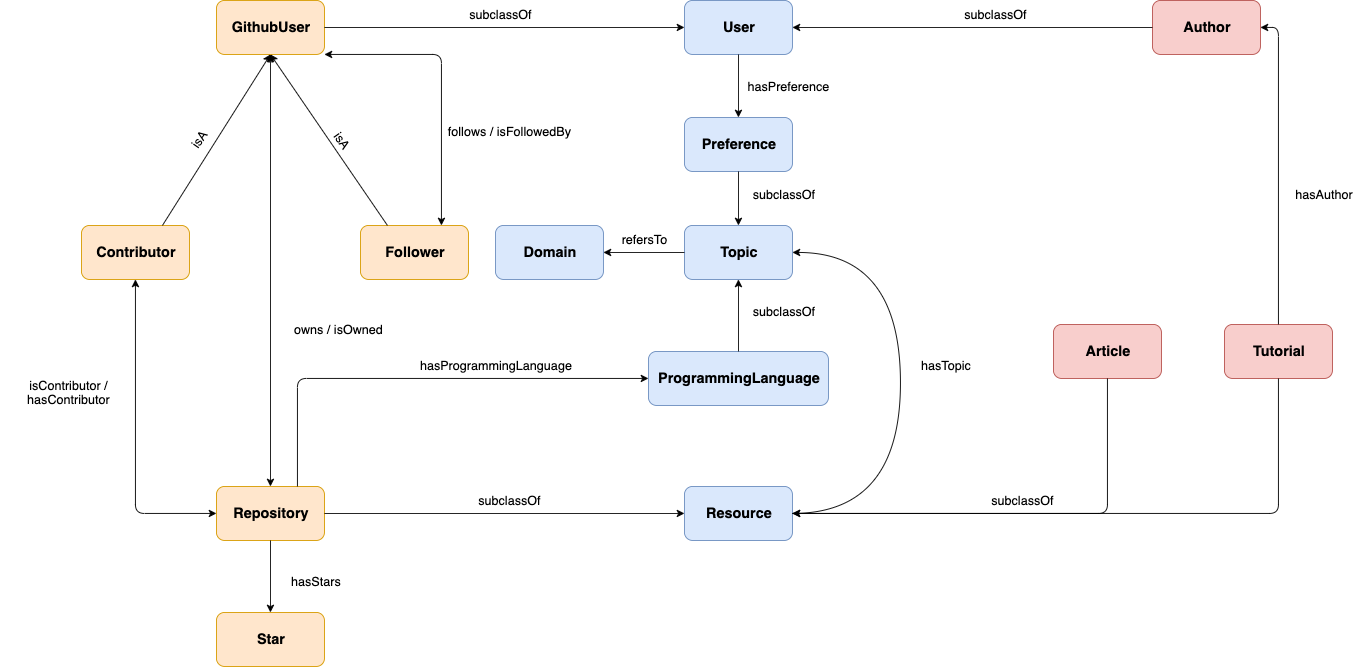
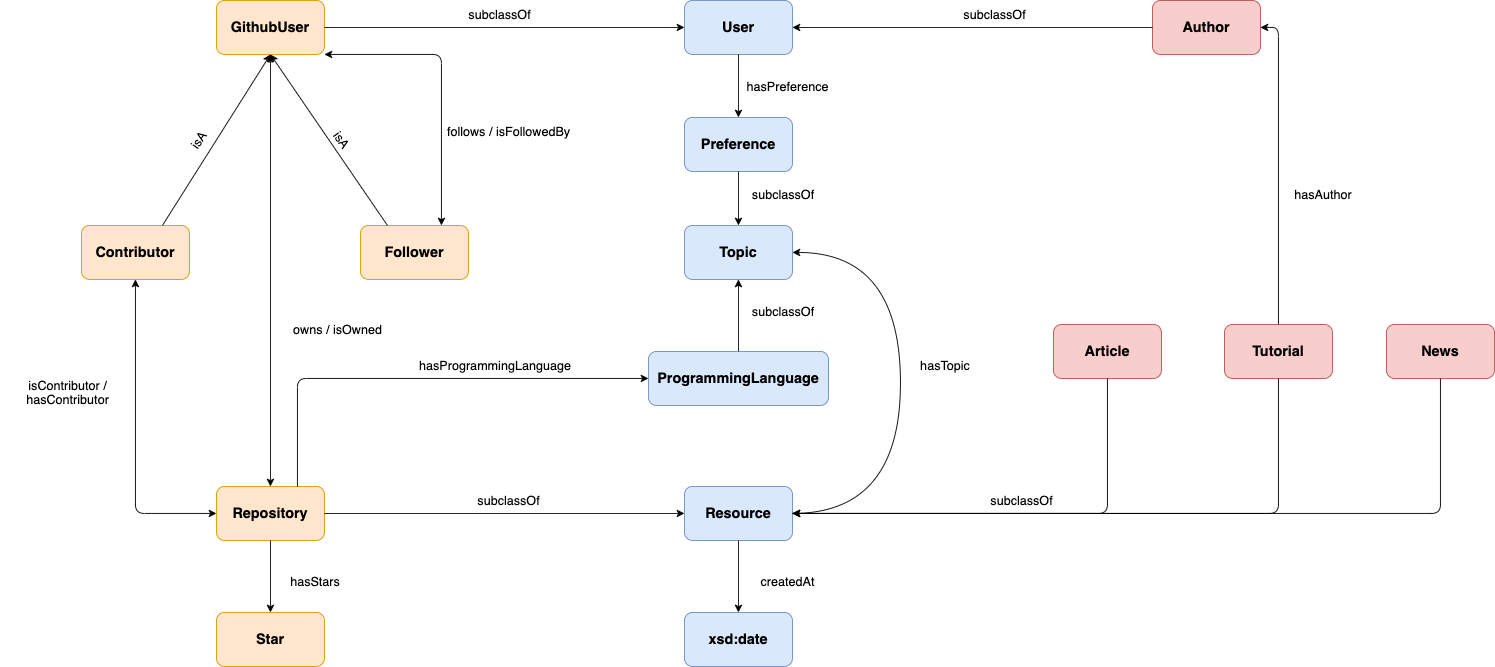
[Documentation] Updated Ontology diagram and discribed suggestion strategies

diff --git a/scholarly/scholarly.html b/scholarly/scholarly.html
@@ -339,7 +339,7 @@
         </section>
 
         <section>
-            <h2>Main Application Workflow</h2>
+            <h2>Main Application Features</h2>
             <section>
                 <h3>Query for information</h3>
                 <figure typeof="sa:Image">
@@ -399,6 +399,66 @@
                     and the Data Source Services will perform the update in parallel.
                 </p>
             </section>
+
+            <section>
+                <h3>Web Resources Suggestions</h3>
+                <p>
+                    In the context of the client application that SATO offers, for helping users find resources of
+                    interest, on the Main Page of the application, there is under the search input a suggestions section
+                    where resources that exist in the SATO Knowledge Graph are displayed to users according to different
+                    strategies.
+                </p>
+                <p>
+                    At each main page reload, a new set of suggestions is recommended to any user. There are two
+                    suggestion strategies: for unauthenticated users and for authenticated users.
+                </p>
+                <p>
+                    For unauthenticated users, a query is made for suggesting random Articles, News and Repositories
+                    from the top 100 topics that exist in SATO Knowledge Graph. The query looks like this:
+                </p>
+                <pre>
+            PREFIX : &lthttp://www.semanticweb.org/wade/ontologies/sato#&gt
+            PREFIX rdf: &lthttp://www.w3.org/1999/02/22-rdf-syntax-ns#&gt
+            SELECT DISTINCT ?url WHERE {
+                ?url rdf:type ?type .
+                FILTER (?type IN (:Article, :News, :Repository)) .
+                ?url :hasTopic ?topic .
+                {
+                    SELECT ?topic (COUNT(?topic) AS ?occurrences) {
+                        ?url :hasTopic ?topic
+                    }
+                    GROUP BY ?topic
+                    ORDER BY DESC(?occurrences)
+                    LIMIT 100
+                }
+            }
+            ORDER BY RAND()
+            LIMIT 8
+                </pre>
+                <p>
+                    For authenticated users, the suggestions query is influenced by the user interests that were
+                    extracted from the Github profile that was used for sign in. The suggestion query looks like this:
+                </p>
+                <pre>
+            PREFIX : &lthttp://www.semanticweb.org/wade/ontologies/sato#&gt
+            PREFIX rdf: &lthttp://www.w3.org/1999/02/22-rdf-syntax-ns#&gt
+            SELECT DISTINCT ?url {
+                ?url rdf:type ?type .
+                FILTER (?type IN (:Article, :News, :Repository)) .
+                ?url :hasTopic ?topic .
+                FILTER (CONTAINS(STR(?topic), 'topic1') ||
+                        CONTAINS(STR(?url), 'topic1') ||
+                        CONTAINS(STR(?topic), 'topic2') ||
+                        CONTAINS(STR(?url), 'topic2')) .
+            }
+            ORDER BY RAND()
+            LIMIT 8
+                </pre>
+            </section>
+
+<!--            <section>-->
+<!--                <h3>Advanced Search</h3>-->
+<!--            </section>-->
         </section>
 
         <section>
